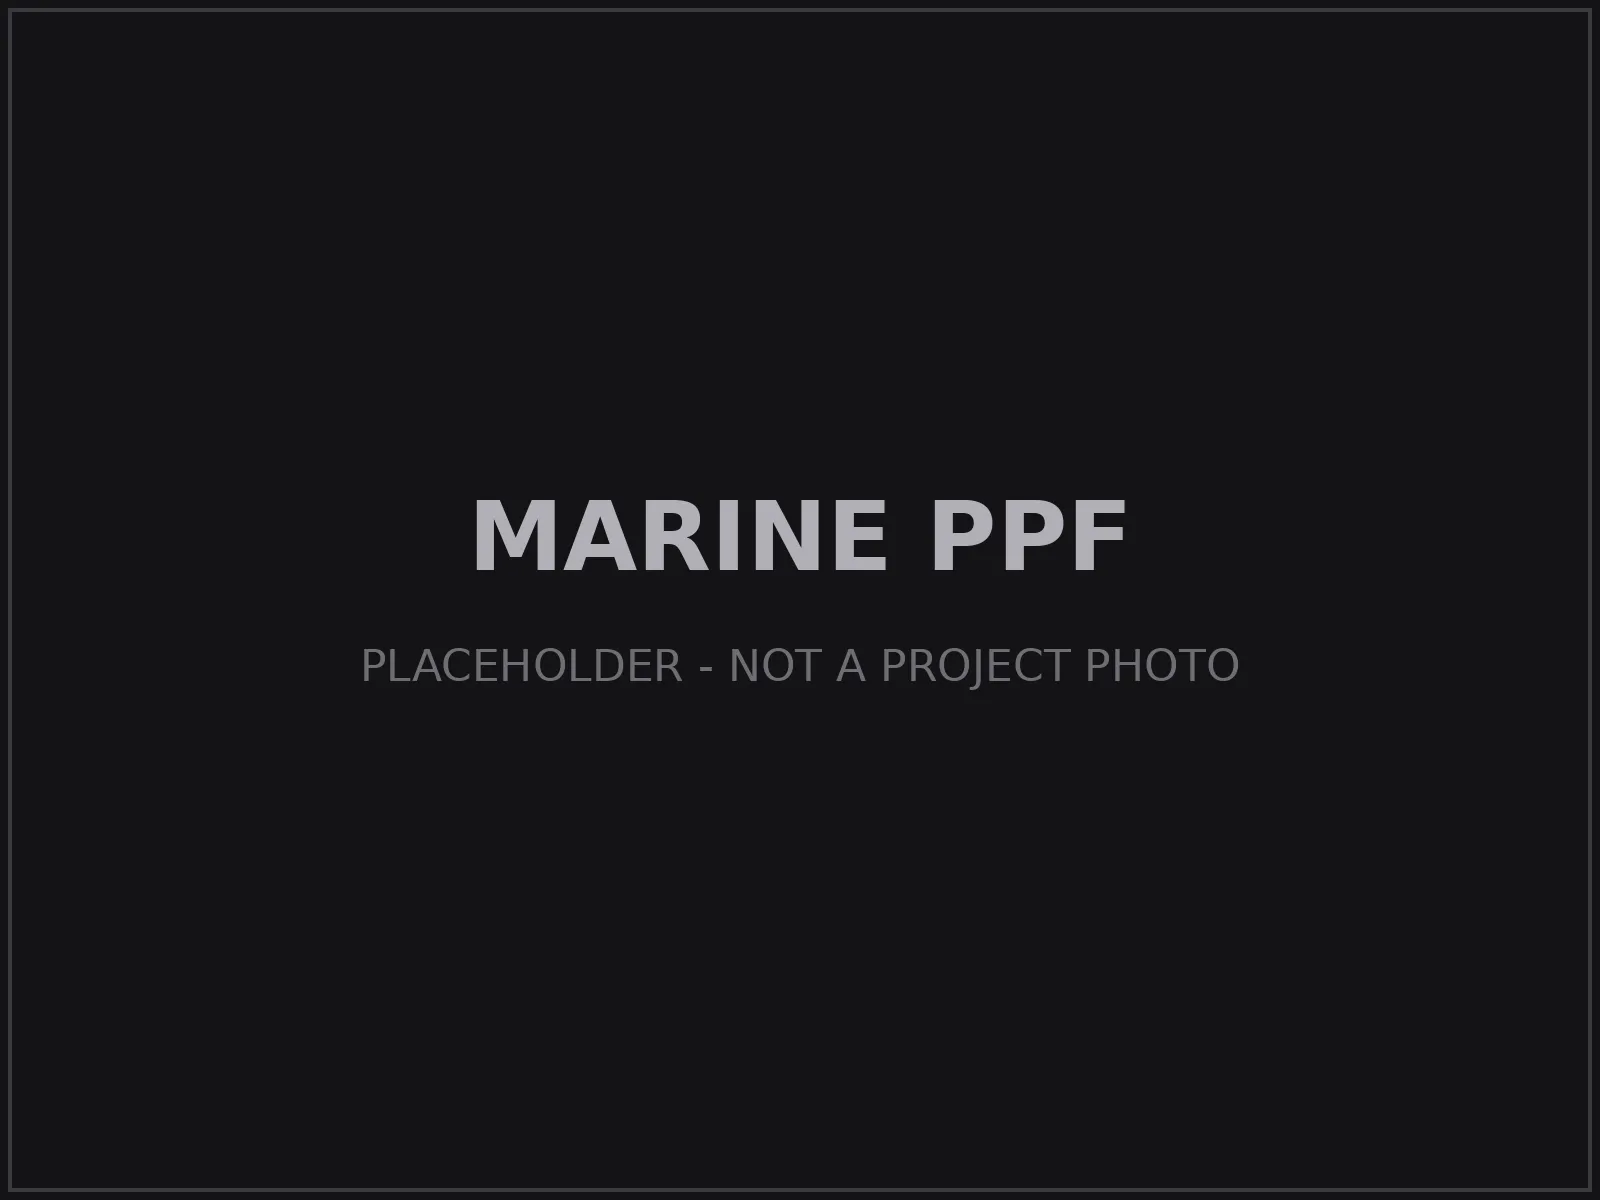
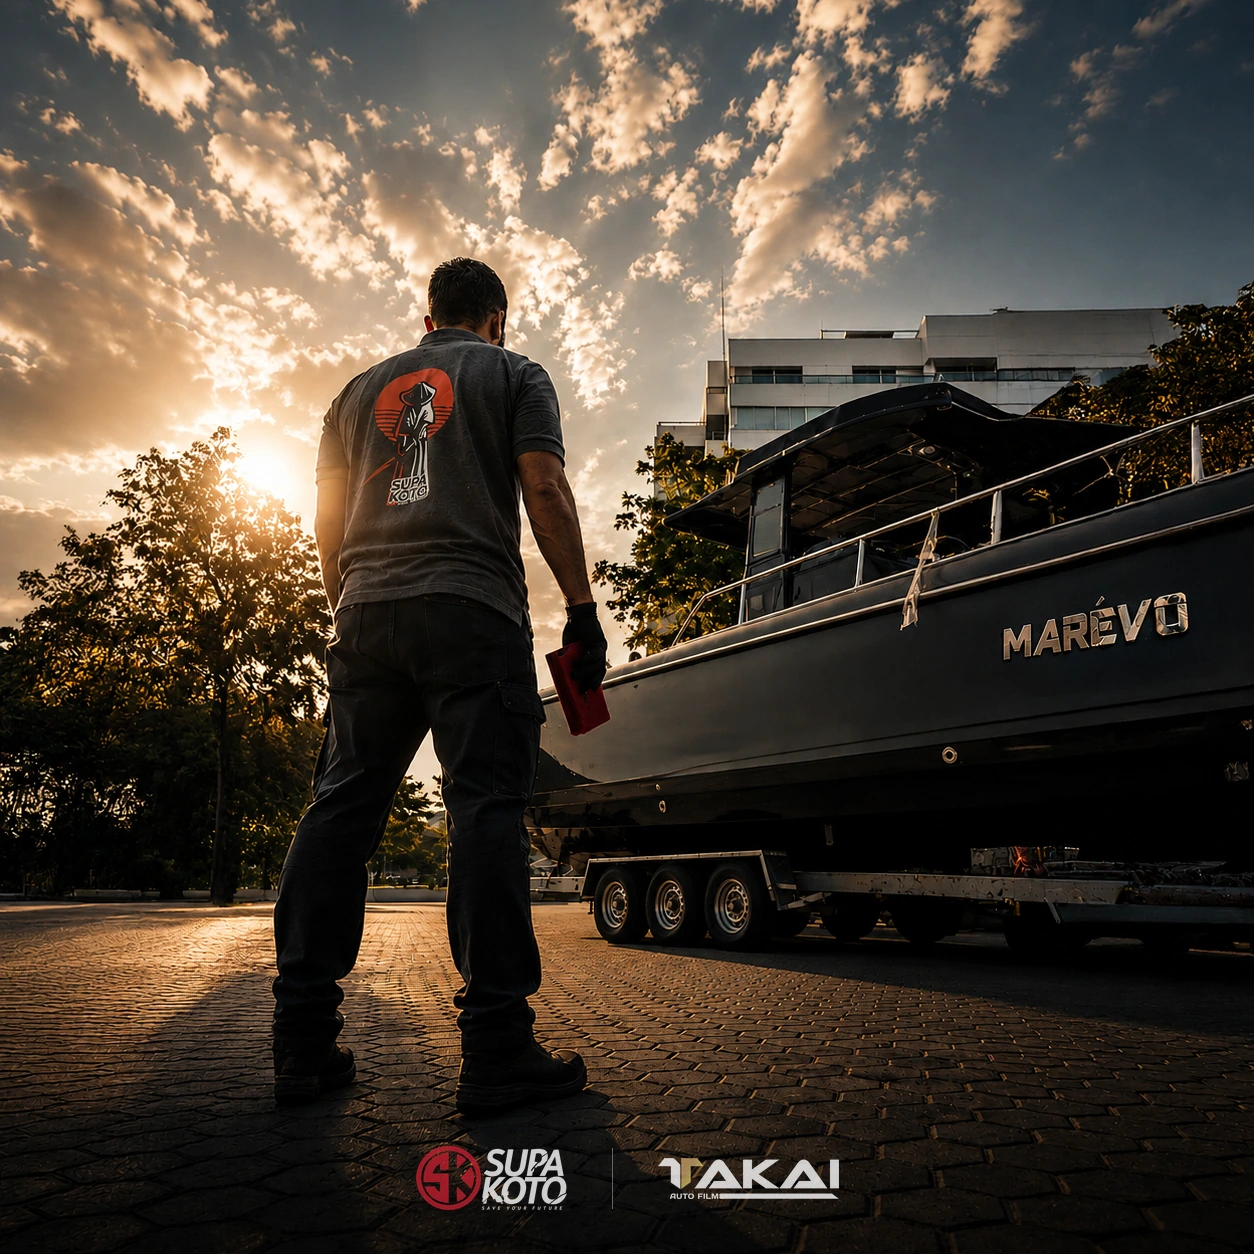
feat: real photography for marine PPF and building heat isolation
Replace the Phase 13 generated placeholders with our own SupaKoto x TAKAI
watermarked photos:

- public/images/services/marine-ppf.webp: technician beside the Marevo
  boat (was 9KB placeholder) — feeds the services grid card and the
  marine-ppf detail hero via serviceImage().
- public/images/services/building-heat-isolation.webp: glass office
  tower (was 11KB placeholder) — grid card + building page hero.
- public/images/gallery/building-astrazeneca.webp and
  building-hustle-drip.webp: first two building project photos,
  registered as gallery items under the building-heat-isolation
  category, which previously had zero items.

Follow-through: rewrote the placeholder imageAlt strings for both
services (en + ar), added gallery alt keys for the two new items in
both locales, and removed the now-dead buildings empty state from
GalleryGrid plus its buildingsEmpty message keys. surface-protection
keeps its labelled placeholder.

Verified: pnpm lint and pnpm build green (54 static pages); grep
confirms no remaining buildingsEmpty references.

diff --git a/content/gallery.ts b/content/gallery.ts
@@ -92,6 +92,26 @@ export const galleryItems: GalleryItem[] = [
   img("230", "nano-ceramic", 1536, 2048),
   img("232", "colour-change", 1536, 2048),
   img("234", "ppf", 1536, 2048),
+  // Building projects — our own installation photos (SupaKoto × TAKAI
+  // watermarked), not from the V2_Prod harvest.
+  {
+    id: "building-astrazeneca",
+    kind: "image",
+    category: "building-heat-isolation",
+    src: "/images/gallery/building-astrazeneca.webp",
+    width: 680,
+    height: 383,
+    aspect: "landscape",
+  },
+  {
+    id: "building-hustle-drip",
+    kind: "image",
+    category: "building-heat-isolation",
+    src: "/images/gallery/building-hustle-drip.webp",
+    width: 408,
+    height: 544,
+    aspect: "portrait",
+  },
   {
     id: "showreel",
     kind: "video",

diff --git a/components/sections/GalleryGrid.tsx b/components/sections/GalleryGrid.tsx
@@ -67,14 +67,6 @@ export function GalleryGrid() {
         ))}
       </div>
 
-      {/* Buildings has no photography yet — labelled placeholder state,
-          never car images. */}
-      {filtered.length === 0 && (
-        <p className="mt-8 max-w-prose rounded-card border border-ink-700 bg-ink-800 px-5 py-6 text-fg-muted">
-          {t("buildingsEmpty")}
-        </p>
-      )}
-
       {/* Grid */}
       <RevealStagger
         key={filter}

diff --git a/components/sections/services/PendingServiceDetail.tsx b/components/sections/services/PendingServiceDetail.tsx
@@ -40,7 +40,8 @@ export async function PendingServiceDetail({
       />
       <PageHero title={tItem("name")} sub={tItem("benefit")} />
 
-      {/* Labelled placeholder — no real photography exists yet */}
+      {/* Hero visual — real photo for marine-ppf; surface-protection still
+          uses a labelled placeholder until photography exists */}
       <section className="py-(--spacing-section)">
         <Container>
           <Reveal>

diff --git a/app/[locale]/services/building-heat-isolation/page.tsx b/app/[locale]/services/building-heat-isolation/page.tsx
@@ -80,7 +80,7 @@ export default async function BuildingHeatIsolationPage({
       />
       <PageHero title={tItem("name")} sub={tItem("benefit")} />
 
-      {/* Hero visual — labelled placeholder until building photography exists */}
+      {/* Hero visual — our own building installation photography */}
       <section className="py-(--spacing-section)">
         <Container>
           <Reveal>
